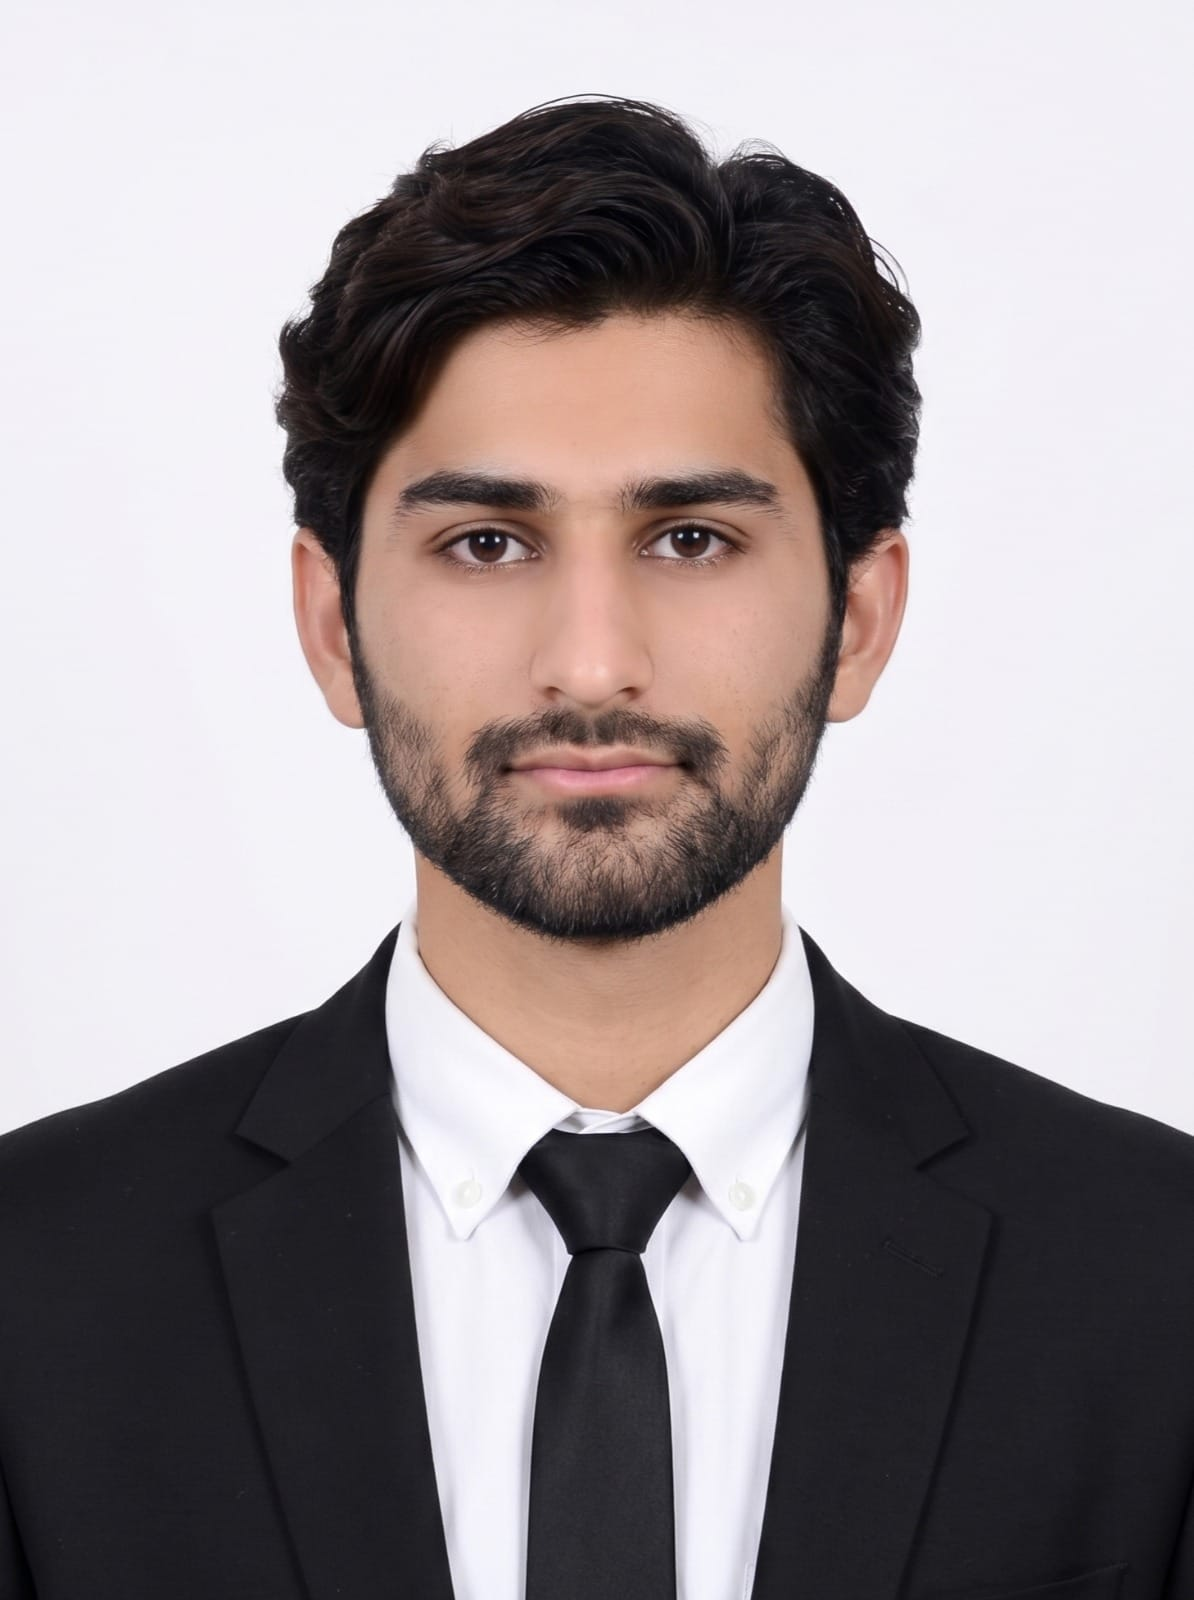
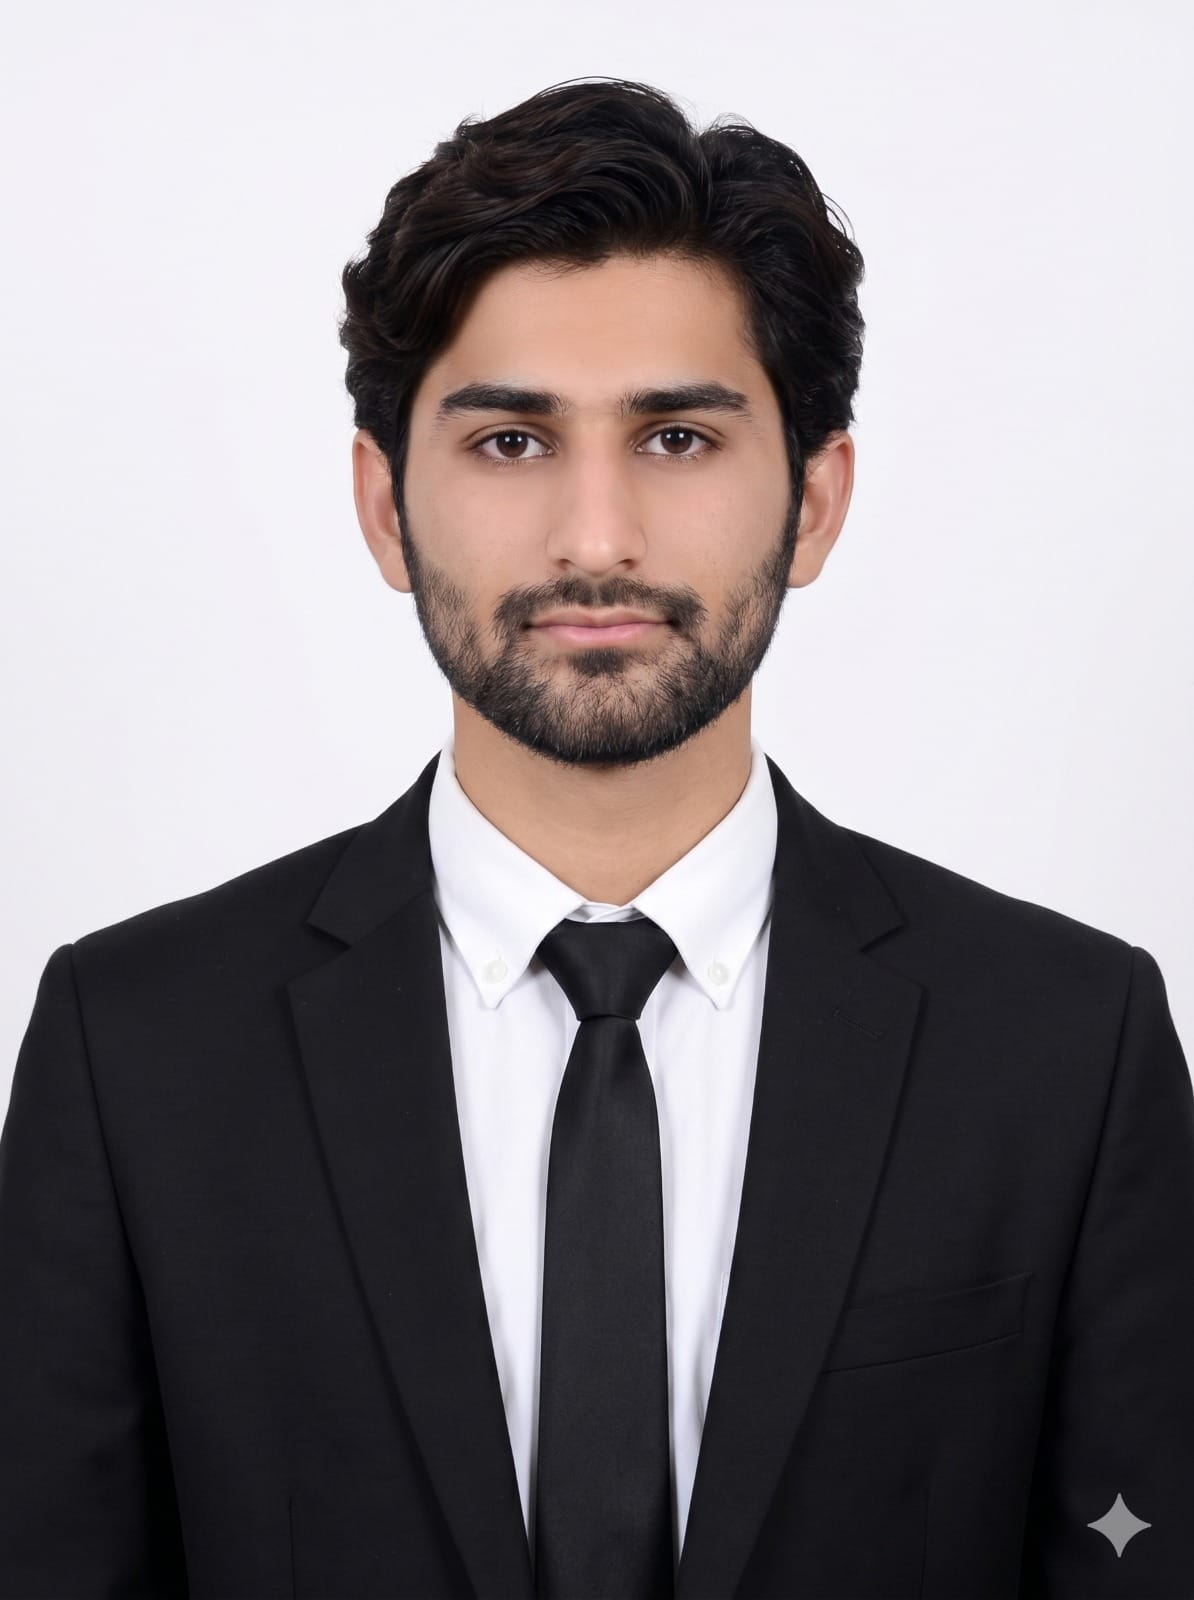
adding the advances background

diff --git a/app/_components/Services.js b/app/_components/Services.js
@@ -1,0 +1,95 @@
+"use client";
+
+import { motion } from "framer-motion";
+import {
+  MonitorSmartphone,
+  Network,
+  BrainCircuit,
+  ShieldCheck,
+} from "lucide-react";
+import { services } from "../_data/portfolioData";
+
+// Helper to map string icon names from data to actual Lucide components
+const IconMap = {
+  MonitorSmartphone,
+  Network,
+  BrainCircuit,
+  ShieldCheck,
+};
+
+export default function Services() {
+  const containerVariants = {
+    hidden: { opacity: 0 },
+    visible: {
+      opacity: 1,
+      transition: { staggerChildren: 0.2 },
+    },
+  };
+
+  const cardVariants = {
+    hidden: { opacity: 0, y: 30 },
+    visible: {
+      opacity: 1,
+      y: 0,
+      transition: { duration: 0.6, ease: "easeOut" },
+    },
+  };
+
+  return (
+    <section
+      id="services"
+      className="py-24 px-6 md:px-12 lg:px-24 max-w-7xl mx-auto w-full relative"
+    >
+      {/* Section Header */}
+      <div className="flex flex-col items-center text-center mb-16">
+        <h2 className="text-3xl md:text-4xl font-extrabold text-slate-900 dark:text-slate-100 mb-2">
+          What I Do.
+        </h2>
+        <div className="w-20 h-1 bg-emerald-500 rounded-full mb-6"></div>
+        <p className="text-slate-600 dark:text-slate-400 max-w-2xl text-lg">
+          I provide end-to-end software engineering solutions, from designing
+          secure backend architectures to building intuitive user interfaces.
+        </p>
+      </div>
+
+      {/* Services Grid */}
+      <motion.div
+        variants={containerVariants}
+        initial="hidden"
+        whileInView="visible"
+        viewport={{ once: true, amount: 0.1 }}
+        className="grid grid-cols-1 md:grid-cols-2 gap-8"
+      >
+        {services.map((service) => {
+          const IconComponent = IconMap[service.icon];
+
+          return (
+            <motion.div
+              key={service.id}
+              variants={cardVariants}
+              className="group relative p-8 md:p-10 bg-white dark:bg-neutral-900 rounded-2xl border border-slate-200 dark:border-neutral-800 shadow-xl shadow-slate-200/50 dark:shadow-none overflow-hidden transition-all duration-300 hover:-translate-y-2 hover:border-emerald-500/50"
+            >
+              {/* Subtle background glow on hover */}
+              <div className="absolute inset-0 bg-gradient-to-br from-emerald-500/0 via-emerald-500/0 to-emerald-500/5 opacity-0 group-hover:opacity-100 transition-opacity duration-500"></div>
+
+              {/* Icon Container */}
+              <div className="mb-6 inline-flex p-4 rounded-xl bg-slate-50 dark:bg-black border border-slate-100 dark:border-neutral-800 group-hover:border-emerald-500/30 transition-colors">
+                {IconComponent && (
+                  <IconComponent className="text-emerald-500" size={32} />
+                )}
+              </div>
+
+              <h3 className="text-2xl font-bold text-slate-900 dark:text-slate-100 mb-4 group-hover:text-emerald-500 transition-colors">
+                {service.title}
+              </h3>
+
+              <p className="text-slate-600 dark:text-slate-400 leading-relaxed relative z-10">
+                {service.description}
+              </p>
+            </motion.div>
+          );
+        })}
+      </motion.div>
+    </section>
+  );
+}

diff --git a/app/_data/portfolioData.js b/app/_data/portfolioData.js
@@ -2,8 +2,8 @@ export const personalInfo = {
   name: "Muhammad Farhan",
   title: "Full-Stack Software Engineer",
   location: "Sahiwal, Punjab, Pakistan",
-  bio: "A software engineer with a BSSE from Government College University Faisalabad (3.84 CGPA). I specialize in building scalable, decoupled web applications and integrating advanced functionality like data forecasting. Passionate about clean code, robust system architectures, and rigorous software quality engineering.",
-  github: "https://github.com/yourusername",
+  bio: "I architect and build scalable, decoupled web applications. With a strong focus on system resilience, advanced data integrations, and clean code, I transform complex technical challenges into robust, production-ready solutions.",
+  github: "https://github.com/Farhan0614",
   linkedin: "https://linkedin.com/in/yourusername",
   email: "your.email@example.com",
 };
@@ -55,5 +55,36 @@ export const projects = [
     image: "/img/natours-mockup.png",
     liveLink: "https://your-live-link.com",
     githubLink: "https://github.com/yourusername/natours",
+  },
+];
+
+export const services = [
+  {
+    id: "full-stack",
+    title: "Full-Stack Web Development",
+    description:
+      "Building responsive, highly optimized, and decoupled web applications using Next.js and React on the frontend, powered by resilient Node.js backends.",
+    icon: "MonitorSmartphone", // We will map these in the component
+  },
+  {
+    id: "api-architecture",
+    title: "API Design & Architecture",
+    description:
+      "Developing secure, scalable RESTful APIs with Express, integrating complex databases (MongoDB, Supabase), and implementing strict JWT authentication flows.",
+    icon: "Network",
+  },
+  {
+    id: "data-ml",
+    title: "Data & ML Integration",
+    description:
+      "Leveraging Python, scikit-learn, and data analysis libraries to integrate advanced features like financial forecasting and anomaly detection into web platforms.",
+    icon: "BrainCircuit",
+  },
+  {
+    id: "quality-engineering",
+    title: "Software Quality Engineering",
+    description:
+      "Ensuring application reliability and fault tolerance through rigorous testing methodologies, including unit testing and Boundary Value Analysis.",
+    icon: "ShieldCheck",
   },
 ];

diff --git a/app/globals.css b/app/globals.css
@@ -1,10 +1,8 @@
 @import "tailwindcss";
 
-/* Tells Tailwind v4 to trigger dark mode when the .dark class is present */
 @custom-variant dark (&:is(.dark *));
 
 @layer base {
-  /* You can remove the body background colors from here since we moved them to layout.js */
   h1,
   h2,
   h3,
@@ -12,5 +10,78 @@
   h5,
   h6 {
     @apply text-slate-900 dark:text-slate-100 font-bold tracking-tight;
+  }
+}
+
+@layer utilities {
+  .bg-grid-slate-900 {
+    background-image:
+      linear-gradient(to right, rgb(15 23 42 / 0.1) 1px, transparent 1px),
+      linear-gradient(to bottom, rgb(15 23 42 / 0.1) 1px, transparent 1px);
+  }
+
+  .dark .bg-grid-white {
+    background-image:
+      linear-gradient(to right, rgba(255, 255, 255, 0.05) 1px, transparent 1px),
+      linear-gradient(to bottom, rgba(255, 255, 255, 0.05) 1px, transparent 1px);
+  }
+
+  .bg-grid {
+    background-size: 40px 40px;
+  }
+
+  .mask-radial-faded {
+    mask-image: radial-gradient(circle at center, black, transparent 80%);
+    -webkit-mask-image: radial-gradient(
+      circle at center,
+      black,
+      transparent 80%
+    );
+  }
+
+  /* --- NEW TRACER CLASSES --- */
+  .tracer-h {
+    @apply absolute h-[1px] w-1/3 bg-gradient-to-r from-transparent via-emerald-500/50 to-transparent opacity-0;
+    animation: tracer-horizontal linear infinite;
+  }
+
+  .tracer-v {
+    @apply absolute w-[1px] h-1/3 bg-gradient-to-b from-transparent via-emerald-500/50 to-transparent opacity-0;
+    animation: tracer-vertical linear infinite;
+  }
+}
+
+/* --- NEW TRACER KEYFRAMES --- */
+@keyframes tracer-horizontal {
+  0% {
+    transform: translateX(-100vw);
+    opacity: 0;
+  }
+  20% {
+    opacity: 1;
+  }
+  80% {
+    opacity: 1;
+  }
+  100% {
+    transform: translateX(100vw);
+    opacity: 0;
+  }
+}
+
+@keyframes tracer-vertical {
+  0% {
+    transform: translateY(-100vh);
+    opacity: 0;
+  }
+  20% {
+    opacity: 1;
+  }
+  80% {
+    opacity: 1;
+  }
+  100% {
+    transform: translateY(100vh);
+    opacity: 0;
   }
 }

diff --git a/app/_components/GridBackground.js b/app/_components/GridBackground.js
@@ -1,0 +1,41 @@
+export default function GridBackground() {
+  return (
+    <div className="fixed inset-0 -z-50 flex justify-center items-center pointer-events-none overflow-hidden">
+      {/* 1. The Base Static Grid */}
+      <div className="absolute inset-0 bg-grid bg-grid-slate-900 dark:bg-grid-white mask-radial-faded"></div>
+
+      {/* 2. Horizontal Shooting Lines */}
+      {/* top-[20%] aligns it perfectly with a 40px grid row */}
+      <div
+        className="tracer-h top-[20%]"
+        style={{ animationDelay: "0s", animationDuration: "8s" }}
+      ></div>
+      <div
+        className="tracer-h top-[45%]"
+        style={{ animationDelay: "3s", animationDuration: "12s" }}
+      ></div>
+      <div
+        className="tracer-h top-[75%]"
+        style={{ animationDelay: "7s", animationDuration: "10s" }}
+      ></div>
+
+      {/* 3. Vertical Shooting Lines */}
+      <div
+        className="tracer-v left-[25%]"
+        style={{ animationDelay: "2s", animationDuration: "11s" }}
+      ></div>
+      <div
+        className="tracer-v left-[60%]"
+        style={{ animationDelay: "5s", animationDuration: "9s" }}
+      ></div>
+      <div
+        className="tracer-v left-[85%]"
+        style={{ animationDelay: "1s", animationDuration: "14s" }}
+      ></div>
+
+      {/* 4. Ambient Glowing Orbs */}
+      <div className="absolute top-[-20%] left-[-10%] w-[50%] h-[50%] rounded-full bg-emerald-500/10 dark:bg-emerald-500/5 blur-[120px]"></div>
+      <div className="absolute bottom-[-20%] right-[-10%] w-[40%] h-[40%] rounded-full bg-emerald-500/10 dark:bg-emerald-500/5 blur-[100px]"></div>
+    </div>
+  );
+}

diff --git a/app/_components/Navbar.js b/app/_components/Navbar.js
@@ -20,19 +20,26 @@ export default function Navbar() {
               href="#about"
               className="hover:text-emerald-500 transition-colors"
             >
-              About
+              About & Skills
             </Link>
             <Link
-              href="#skills"
+              href="#services"
               className="hover:text-emerald-500 transition-colors"
             >
-              Skills
+              Services
             </Link>
             <Link
               href="#projects"
               className="hover:text-emerald-500 transition-colors"
             >
               Projects
+            </Link>
+            {/* Added the Contact Link right here! */}
+            <Link
+              href="#contact"
+              className="hover:text-emerald-500 transition-colors"
+            >
+              Contact
             </Link>
           </nav>
 

diff --git a/app/page.js b/app/page.js
@@ -1,15 +1,20 @@
+import Hero from "./_components/Hero";
 import About from "./_components/About";
+import Projects from "./_components/Projects";
 import Contact from "./_components/Contact";
 import Footer from "./_components/Footer";
-import Hero from "./_components/Hero";
-import Projects from "./_components/Projects";
+import GridBackground from "./_components/GridBackground"; // <-- Import it
+import Services from "./_components/Services";
 
 export default function Home() {
   return (
-    // Removed bg-slate-950 from here
-    <main className="flex flex-col min-h-screen overflow-hidden relative">
+    <main className="flex flex-col min-h-screen relative overflow-hidden">
+      {/* Drop the background component here! */}
+      <GridBackground />
+
       <Hero />
       <About />
+      <Services />
       <Projects />
       <Contact />
       <Footer />
